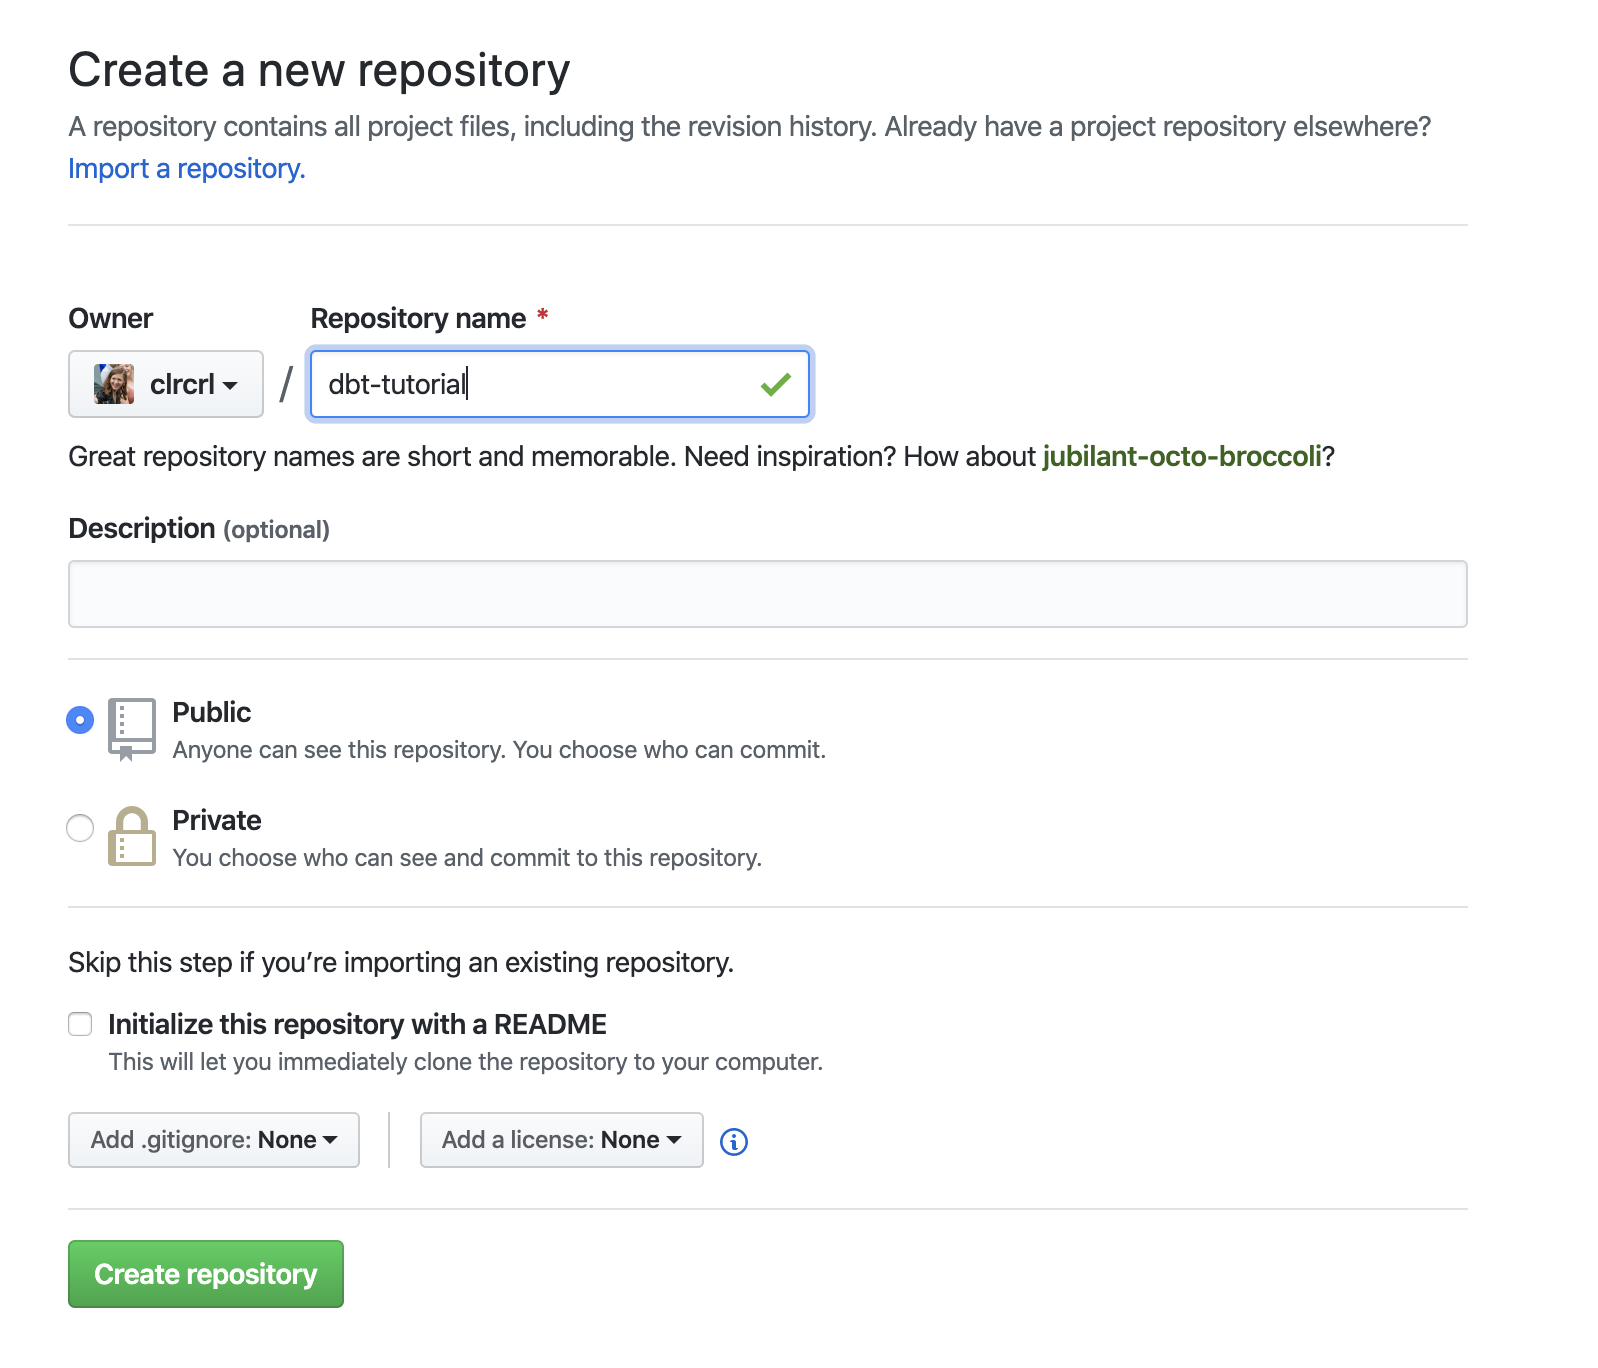
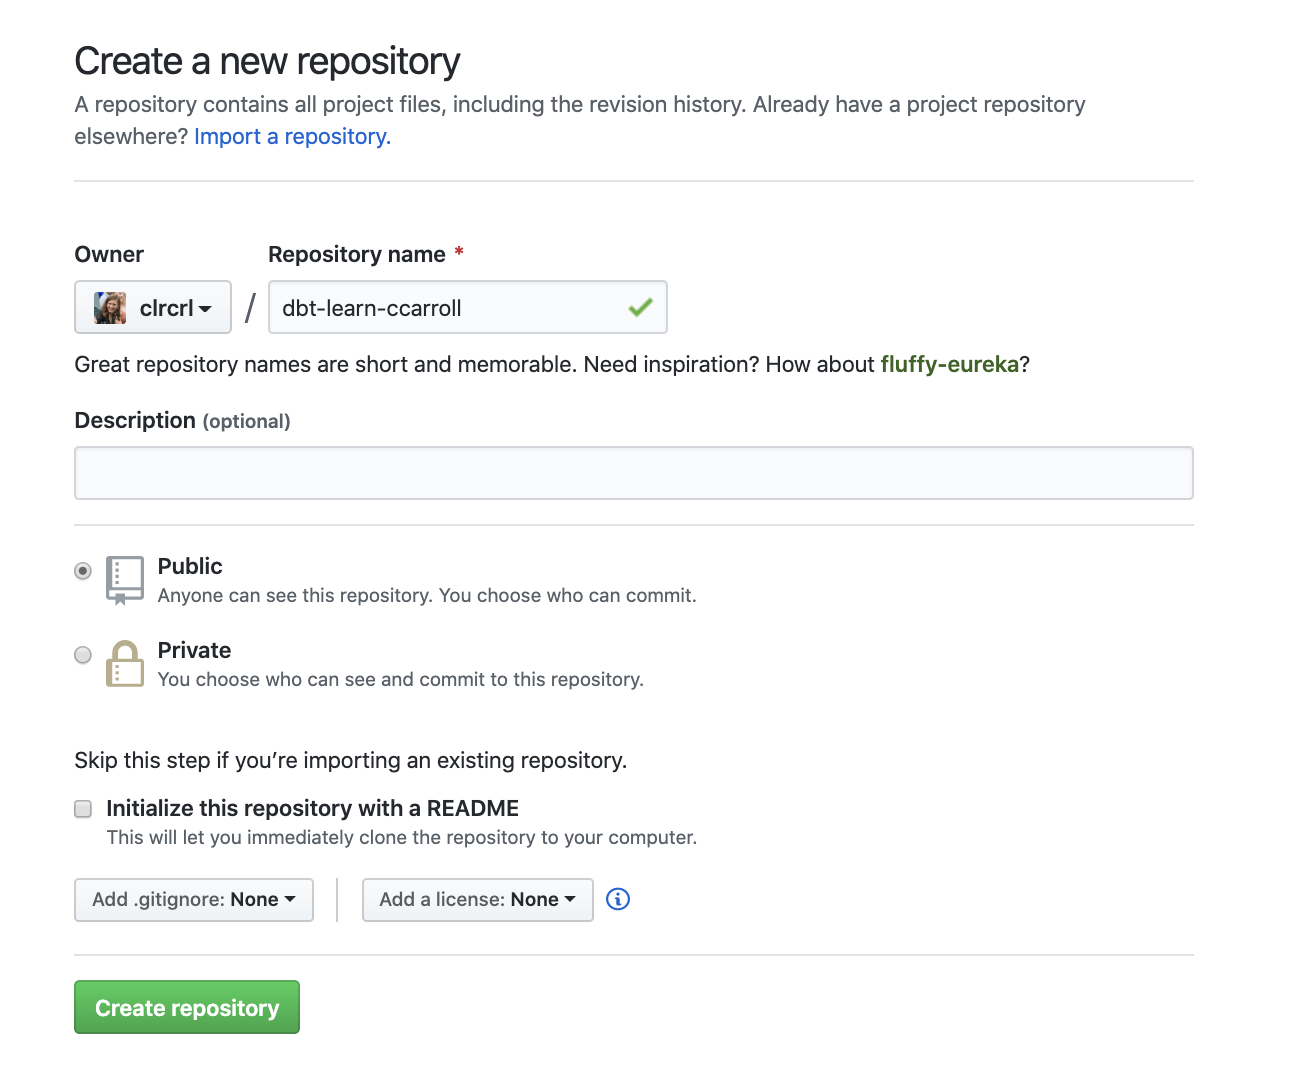
Make instructions clearer for Learn students

diff --git a/website/docs/learn/2a-create-a-project-dbt-cloud.md b/website/docs/learn/2a-create-a-project-dbt-cloud.md
@@ -18,20 +18,36 @@ These are the instructions for developing a project in dbt Cloud. If you're
 using the dbt CLI, follow the instructions <Link to="/tutorial/create-a-project-dbt-cli">here</Link>.
 </Alert>
 
+<Alert type="warning">
+<strong>Learn students:</strong> please make sure you name your project "dbt Learn - [initialsurname]"
+</Alert>
+
 <LoomVideo id="7386840381764d13b1d25f575719e218" />
 
 ## Create the starter project
-1. Login to dbt Cloud using your supplied credentials [here](https://cloud.getdbt.com/login/). If you are also part of another organization's account, ensure you select "dbt Learn" as your account in the header bar.
+<Alert type="info">
+You should have received an invitation to dbt Cloud. Please accept the invitation and create an account.
+</Alert>
+
+1. Login to [dbt Cloud](https://cloud.getdbt.com/login/). If you are also part of another organization's account, ensure you select "dbt Learn" as your account in the header bar.
 2. Create a new project in dbt Cloud:
     * Click the hamburger menu, then `Account Settings`, then `Projects`.
-    * Name your project "dbt Learn - [initialsurname]" (e.g "dbt Learn - ccarroll"), and click `Save`. There's no need to fill in the other details.
+    * **Name your project "dbt Learn - [initialsurname]"** (e.g "dbt Learn - ccarroll"), and click `Save`. There's no need to fill in the other details.
     * Click the hamburger menu, and then `Home`.
-    * Switch the project in the header bar to your new "dbt Tutorial" project.
+    * Switch the project in the header bar to your new "dbt Learn - [initialsurname]" project. **Do not use another student's project**
 3. Complete the project setup flow:
-    * Connect to Snowflake using the same credentials you used to connect in the [Setting Up](tutorial/setting-up.md) instructions.
+    * Connect to Snowflake using the following:
+        * Account: [provided].us-east-1 (e.g. `pa19123.us-east-1`)
+        * Role (optional): transformer
+        * Database: analytics
+        * Warehouse: transforming
     * Add a repository — choose the Github integration, and link to the repository you set up in the [Setting Up](tutorial/setting-up.md) instructions.
 
 <Lightbox src="/img/dbt-cloud-project-setup-flow.png" title="dbt Cloud Project Setup flow" />
+
+<Lightbox src="/img/dbt-cloud-snowflake-connection.png" title="dbt Cloud Database Connection" />
+
+<Lightbox src="/img/dbt-cloud-github-integration.png" title="dbt Cloud GitHub Integration" />
 
 4. Go to the `Develop` interface by either:
     * Selecting `Start Developing`, or

diff --git a/website/docs/learn/1-setting-up.md b/website/docs/learn/1-setting-up.md
@@ -25,7 +25,7 @@ Please note that this tutorial is adapted from the main <a href="https://tutoria
 
 This tutorial is based on a fictional business named `jaffle_shop`, so you'll see this name used throughout the project.
 
-In this tutorial, we will be turning the following query into a dbt project that is tested, documented, and deployed.
+In this tutorial, we will be turning the following query into a dbt project that is tested and documented, ready to be deployed.
 ```sql
 with customers as (
 
@@ -89,7 +89,8 @@ select * from final
 For dbt Learn, we've created a Snowflake account that you will be added to, but dbt works with [many data warehouses](https://docs.getdbt.com/docs/supported-databases).
 
 1. Go to the Snowflake Console (link provided in email) and login with your supplied credentials.
-2. Copy and paste the above query into a worksheet to validate that you are able to run it successfully.
+2. Reset your password: all students will be asked to update their password — please use a password manager to store this securely.
+3. Copy and paste the above query into a worksheet to validate that you are able to run it successfully.
 <Lightbox src="/img/successful-snowflake-query.png" title="Ensure you can run the above query" />
 
 
@@ -102,7 +103,7 @@ For dbt Learn, we've created a Snowflake account that you will be added to, but 
 We're going to use [GitHub](https://github.com/) as our git provider for this tutorial, but you can use any git provider. If you don't yet have a GitHub account, [create one now](https://github.com/join).
 <LoomVideo id="afe148aeab5e4279a2ca310251ea20a6" />
 
-1. Create a new GitHub repository [here](https://github.com/new) named `dbt-tutorial`.
+1. Create a new GitHub repository [here](https://github.com/new) named `dbt-learn-[initiallastname]` (e.g. `dbt-learn-ccarroll`).
 2. Click **Create repository** (without `.gitignore` and without a license).
 
 <Lightbox src="/img/create-github-repo.png" title="Create a GitHub repo" />

diff --git a/website/docs/learn/2b-create-a-project-dbt-cli.md b/website/docs/learn/2b-create-a-project-dbt-cli.md
@@ -74,9 +74,9 @@ jaffle_shop: # this needs to match the profile: in your dbt_project.yml file
     dev:
       type: snowflake
       threads: 4
-      account: [account_id] # supplied to you
+      account: [account_id].us-east-1 # supplied to you, eg. pa19123.us-east-1
       user: [username] # supplied to you
-      password: [password] # supplied to you
+      password: [password] # supplied to you, you should have been asked to reset it when you opened the Snowflake console
       role: transformer
       database: analytics
       warehouse: transforming
@@ -90,7 +90,7 @@ $ dbt debug
 ```
 Confirm that the last line of the output is `Connection test: OK connection ok`.
 
-<Lightbox src="/img/successful-dbt-debug.png" title="A successful dbt debug command" />
+<Lightbox src="/img/successful-dbt-debug-snowflake.png" title="A successful dbt debug command" />
 
 ### FAQs
 <FAQ src="faqs/sample-profiles" alt_header="My data team uses a different data warehouse. What should my profiles.yml file look like for my warehouse?"/>
@@ -119,7 +119,7 @@ We need to commit our changes so that our repository has up-to-date code.
 ```shell-session
 $ git init
 $ git commit -m "Create a dbt project"
-$ git remote add origin https://github.com/USERNAME/dbt-tutorial.git
+$ git remote add origin https://github.com/USERNAME/dbt-learn-[initialsurname].git
 $ git push -u origin master
 ```
 

diff --git a/website/docs/learn/3-build-your-first-models.md b/website/docs/learn/3-build-your-first-models.md
@@ -64,6 +64,7 @@ models:
       materialized: view
 ```
 2. Execute `dbt run`. Your model, `customers` should now be built as a table!
+
 <Alert type="info">
 To do this, dbt had to first run a `drop view` statement, then a `create table as` statement.
 </Alert>
